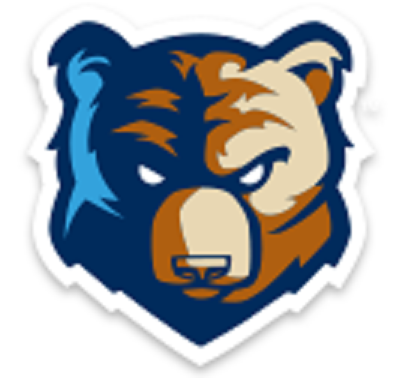
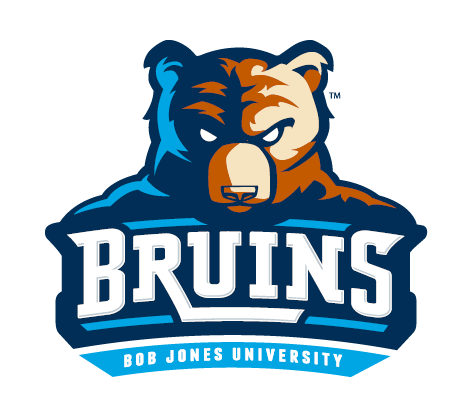
Website updates

diff --git a/contest/index.html b/contest/index.html
@@ -70,7 +70,7 @@
 	<!-- Main jumbotron for a primary marketing message or call to action -->
 	<div class="jumbotron intro">
 		<h1 class="">HSPC 2017</h1>
-		<img src="images/hspc-logo.png" class="img-responsive center-block" alt="HSPC logo">
+		<img src="images/bjpc-logo.png" class="img-responsive center-block" alt="HSPC logo">
 		<p class="text-center"><a href="#register" class="btn btn-lg btn-default">REGISTER</a></p>
 	</div>
 	<div class="pane" id="about">
@@ -80,7 +80,7 @@
 		<div class="row white">
 			<div class="col-md-4 col-md-offset-2">
 				<h2>Show Off Your Problem-Solving Skills!</h2>
-				<p>HSPC is a 3 hour competition where high school students compete to demonstrate their programming skills and problem solving
+				<p>BJPC is a 3 hour competition where high school students compete to demonstrate their programming skills and problem solving
 					abilities.
 				</p>
 				<div class="row">
@@ -93,45 +93,11 @@
 					</div>
 				</div>
 			</div>
-			<div class="col-md-6"><img src="images/brody.png" alt="CS Turtle" class="img-responsive">
+			<div class="col-md-6"><img src="images/brody.png"  class="img-responsive">
 			</div>
 		</div>
 	</div>
-	<div class="row white">
-		<div class="col-md-6 col-md-offset-3">
-			<div id="carousel-example-generic" class="carousel slide" data-ride="carousel">
-				<!-- Indicators -->
-				<ol class="carousel-indicators">
-					<li data-target="#carousel-example-generic" data-slide-to="0" class="active"></li>
-					<li data-target="#carousel-example-generic" data-slide-to="1" class=""></li>
-					<li data-target="#carousel-example-generic" data-slide-to="2" class=""></li>
-				</ol>
 
-				<!-- Wrapper for slides -->
-				<div class="carousel-inner" role="listbox">
-					<div class="item active">
-						<img src="images/01.jpg" alt="...">
-					</div>
-					<div class="item">
-						<img src="images/02.jpg" alt="...">
-					</div>
-					<div class="item">
-						<img src="images/03.jpg" alt="...">
-					</div>
-				</div>
-
-				<!-- Controls -->
-				<a class="left carousel-control" href="#carousel-example-generic" role="button" data-slide="prev">
-					<span class="glyphicon glyphicon-chevron-left" aria-hidden="true"></span>
-					<span class="sr-only">Previous</span>
-				</a>
-				<a class="right carousel-control" href="#carousel-example-generic" role="button" data-slide="next">
-					<span class="glyphicon glyphicon-chevron-right" aria-hidden="true"></span>
-					<span class="sr-only">Next</span>
-				</a>
-			</div>
-		</div>
-	</div>
 
 	<div class="pane" id="schedule">
 		<div class="page-header">
@@ -149,17 +115,17 @@
 
 						<tr>
 							<td>8:00am</td>
-							<td>Welcome &amp; Overview<br>ML 2A, Mack Library</td>
+							<td>Welcome &amp; Overview<br> Computer Lab, Mack Library</td>
 						</tr>
 
 						<tr>
 							<td>8:30am</td>
-							<td>Practice Session for Students</td>
+							<td>Practice Session</td>
 						</tr>
 
 						<tr>
 							<td>9am-12pm</td>
-							<td>Contest, Computer Science Labs, Mack Library</td>
+							<td>Contest<br> Computer Lab, Mack Library</td>
 						</tr>
 
 						<tr>
@@ -168,7 +134,7 @@
 						</tr>
 
 						<tr>
-							<td>12:30-1pm</td>
+							<td>12:30-1:00pm</td>
 							<td>Lunch
 							</td>
 						</tr>
@@ -205,7 +171,7 @@
 		<div class="row white">
 			<div class="col-md-8 col-md-offset-2">
 				<h3>Prizes</h3>
-				<p>Here we discuss the prizes and publish the names of the winners</p>.
+				<p>We are currently determining the prizes. Check back for further details.</p>
 				<!--
 				<h2>First Place</h2>
 				<p>TBA</p>
@@ -260,13 +226,15 @@
 				<h3>3 Steps to Register</h3>
 				<p>The Registration process works as follows:</p>
 				<ol>
-					<li>Register for an account on <a href="https://www.hackerrank.com" target="_blank">hackerrank</a>, and solve
-						<a href="https://www.hackerrank.com/challenges/simple-array-sum"
-							target="_blank">this problem</a>. Your solution must be accepted by hackerrank in order for you to qualify to enter the contest.</li>
-					<li>Fill out the registration form. We will verify your qualification, and reply by email with further instructions.
+					<li>Register for an account on <a href="http://www.spoj.com" target="_blank">spoj.com</a>, and solve
+						<a href="http://www.spoj.com/problems/ADDREV/"
+							target="_blank">this problem</a> using one of the following languages: Python 3, Java, C#, Visual Basic.NET, 
+							or C++. Your solution must be accepted by the spoj judge in order for you to qualify to enter the contest.</li>
+					<li>Fill out the <a href="https://docs.google.com/forms/d/e/1FAIpQLScZFtdn-WJ7pxpY-zVTUblEe7GkYP6DQRweBxdChyqR3jtioA/viewform" target="_blank">registration form</a>. We will verify your qualification, and reply by email with further instructions.
 					</li>
 					<li>Send in the $10 registration fee. Your registration is not final until we receive your fee.</li>
 				</ol>
+				<p>Registration Deadline is <b>Monday, March 13</b>.</p>
 			</div>
 		</div>
 	</div>

diff --git a/theme.css b/theme.css
@@ -73,7 +73,7 @@ body	{
 .jumbotron.intro	{
 	margin-top: 127px;
 	margin-bottom:0;
-	height: 280px;
+	height: 400px;
 	background: url('../images/bg-intro.jpg') repeat-x #222;
 }
 
